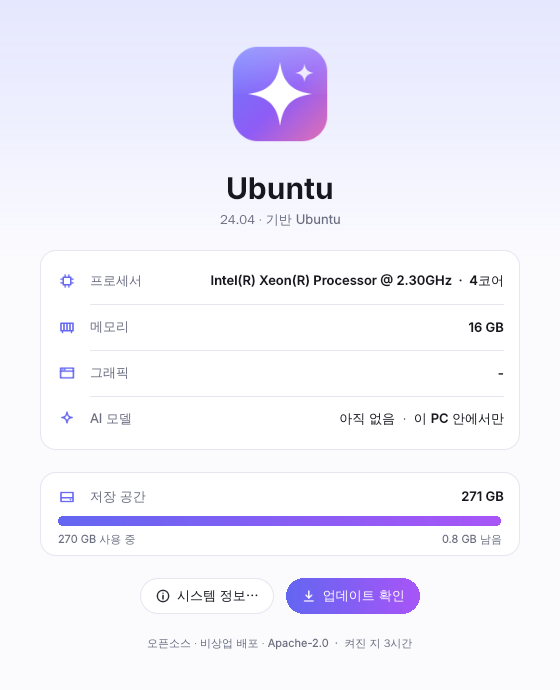
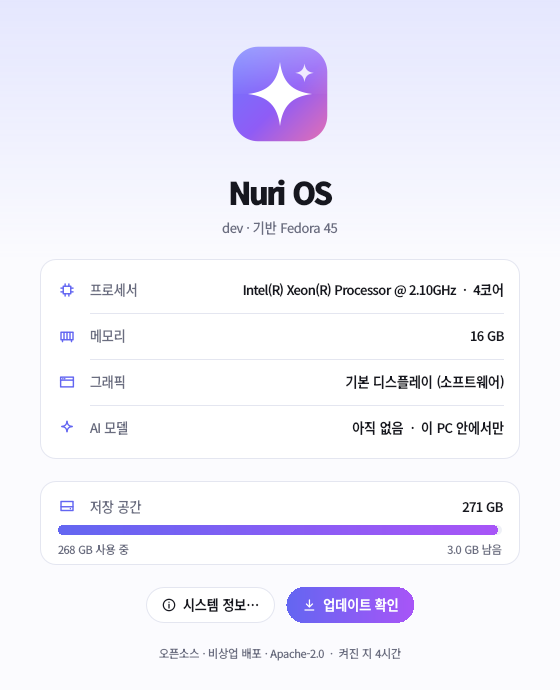
Welcome, Control Center and web remote polish
- Welcome: pages are centred vertically, the AI page no longer runs into
  the footer (window 680 px tall), every page has its own icon, info rows
  are cards like on the privacy page, the greeting line no longer wraps
- New icons: appearance (palette), comfort (pointer), keyboard (가/A key),
  privacy (shield)
- Control Center: sliders filled in the accent colour with a knob and a
  percentage; status gauges share the card width evenly
- About: "Basic display (software)" instead of "-" without a GPU
- Web remote: no on-screen keyboard popping up over text fields, spaced
  dock icons with tooltips

Claude-Session: https://claude.ai/code/session_01EDZh8PnYSk91ZfHtKaYmRu

diff --git a/distro/system_files/usr/lib/nuri/qml/Welcome.qml b/distro/system_files/usr/lib/nuri/qml/Welcome.qml
@@ -6,9 +6,9 @@ import QtQuick.Controls.Basic
 Window {
     id: win
     width: 900
-    height: 640
-    minimumWidth: 760
-    minimumHeight: 560
+    height: 680
+    minimumWidth: 780
+    minimumHeight: 620
     visible: false
     title: bridge.t.title
     color: ui.card
@@ -84,13 +84,17 @@ Window {
         MouseArea { id: m; anchors.fill: parent; hoverEnabled: true; cursorShape: Qt.PointingHandCursor
                     onClicked: parent.picked() }
     }
-    component InfoRow: Row {
+    component InfoRow: Rectangle {
         property string art
         property alias text: tx.text
-        spacing: 16
         width: parent.width
-        Image { width: 44; height: 44; sourceSize: Qt.size(88, 88); source: parent.art }
-        Text { id: tx; width: parent.width - 60; anchors.verticalCenter: parent.verticalCenter
+        height: Math.max(44, tx.implicitHeight) + 24
+        radius: 16
+        color: ui.surface
+        border.color: ui.border
+        Image { x: 14; anchors.verticalCenter: parent.verticalCenter
+                width: 40; height: 40; sourceSize: Qt.size(80, 80); source: parent.art }
+        Text { id: tx; x: 68; width: parent.width - 84; anchors.verticalCenter: parent.verticalCenter
                font.pixelSize: 15; color: ui.text; wrapMode: Text.Wrap; lineHeight: 1.2 }
     }
 
@@ -120,6 +124,8 @@ Window {
         id: stage
         anchors { left: parent.left; right: parent.right; top: parent.top; bottom: footer.top }
         anchors.margins: 40
+        anchors.topMargin: 30
+        anchors.bottomMargin: 26
 
         // 1. hello ----------------------------------------------------------
         Page {
@@ -157,7 +163,7 @@ Window {
                         }
                     }
                 }
-                Text { width: Math.min(parent.width, 520); anchors.horizontalCenter: parent.horizontalCenter
+                Text { width: Math.min(parent.width, 640); anchors.horizontalCenter: parent.horizontalCenter
                        horizontalAlignment: Text.AlignHCenter; wrapMode: Text.Wrap; lineHeight: 1.25
                        text: bridge.t.hello_sub; font.pixelSize: 15; color: ui.sub }
             }
@@ -167,8 +173,9 @@ Window {
         Page {
             name: "ai"
             Column {
+                anchors.verticalCenter: parent.verticalCenter
                 width: parent.width
-                spacing: 22
+                spacing: 18
                 Heading { title: bridge.t.ai_title; sub: bridge.t.ai_sub; art: win.icon("apps", "nuri-assistant") }
                 Flow {
                     width: parent.width
@@ -225,9 +232,10 @@ Window {
         Page {
             name: "look"
             Column {
+                anchors.verticalCenter: parent.verticalCenter
                 width: parent.width
-                spacing: 26
-                Heading { title: bridge.t.look_title; sub: bridge.t.look_sub }
+                spacing: 22
+                Heading { title: bridge.t.look_title; sub: bridge.t.look_sub; art: win.icon("apps", "preferences-desktop-theme") }
                 Row {
                     anchors.horizontalCenter: parent.horizontalCenter
                     spacing: 28
@@ -313,9 +321,10 @@ Window {
         Page {
             name: "comfort"
             Column {
+                anchors.verticalCenter: parent.verticalCenter
                 width: parent.width
-                spacing: 30
-                Heading { title: bridge.t.comfort_title; sub: bridge.t.comfort_sub }
+                spacing: 22
+                Heading { title: bridge.t.comfort_title; sub: bridge.t.comfort_sub; art: win.icon("apps", "preferences-desktop-mouse") }
                 Repeater {
                     model: [
                         { label: bridge.t.btn_side, a: bridge.t.btn_left, b: bridge.t.btn_right, key: "buttons" },
@@ -370,13 +379,15 @@ Window {
         Page {
             name: "windows"
             Column {
+                anchors.verticalCenter: parent.verticalCenter
                 width: Math.min(parent.width, 600)
                 anchors.horizontalCenter: parent.horizontalCenter
-                spacing: 22
+                spacing: 12
                 Heading { title: bridge.t.win_title; sub: bridge.t.win_sub; art: win.icon("apps", "nuri-windows-apps") }
                 InfoRow { art: win.icon("places", "folder-download"); text: bridge.t.win_exe }
                 InfoRow { art: win.icon("apps", "plasma-discover"); text: bridge.t.win_bottles }
                 InfoRow { art: win.icon("apps", "utilities-terminal"); text: bridge.t.win_steam }
+                Item { width: 1; height: 4 }
                 PillButton { anchors.horizontalCenter: parent.horizontalCenter; theme: ui; primary: true
                              icon: "download"; text: bridge.t.win_get; onClicked: bridge.open("bottles") }
             }
@@ -386,9 +397,10 @@ Window {
         Page {
             name: "input"
             Column {
+                anchors.verticalCenter: parent.verticalCenter
                 width: parent.width
                 spacing: 28
-                Heading { title: bridge.t.input_title; sub: bridge.t.input_sub }
+                Heading { title: bridge.t.input_title; sub: bridge.t.input_sub; art: win.icon("apps", "preferences-desktop-keyboard") }
                 Row {
                     anchors.horizontalCenter: parent.horizontalCenter
                     spacing: 18
@@ -419,30 +431,14 @@ Window {
         Page {
             name: "privacy"
             Column {
+                anchors.verticalCenter: parent.verticalCenter
                 width: Math.min(parent.width, 600)
                 anchors.horizontalCenter: parent.horizontalCenter
-                spacing: 24
-                Heading { title: bridge.t.priv_title; sub: "" }
-                Rectangle {
-                    width: parent.width; height: privA.height + 36; radius: 16; color: ui.surface; border.color: ui.border
-                    Row {
-                        id: privA; x: 18; y: 18; spacing: 16; width: parent.width - 36
-                        Rectangle { width: 44; height: 44; radius: 12; color: ui.accentSoft
-                                    Icon { anchors.centerIn: parent; name: "lock"; color: ui.accent; size: 22 } }
-                        Text { width: parent.width - 60; anchors.verticalCenter: parent.verticalCenter
-                               text: bridge.t.priv_ai; wrapMode: Text.Wrap; color: ui.text; font.pixelSize: 15 }
-                    }
-                }
-                Rectangle {
-                    width: parent.width; height: privB.height + 36; radius: 16; color: ui.surface; border.color: ui.border
-                    Row {
-                        id: privB; x: 18; y: 18; spacing: 16; width: parent.width - 36
-                        Image { width: 44; height: 44; sourceSize: Qt.size(88, 88); source: win.icon("apps", "system-software-update") }
-                        Text { width: parent.width - 60; anchors.verticalCenter: parent.verticalCenter
-                               text: bridge.t.priv_upd; wrapMode: Text.Wrap; color: ui.text; font.pixelSize: 15
-                               lineHeight: 1.2 }
-                    }
-                }
+                spacing: 16
+                Heading { title: bridge.t.priv_title; sub: ""; art: win.icon("apps", "preferences-security") }
+                InfoRow { art: win.icon("apps", "nuri-assistant"); text: bridge.t.priv_ai }
+                InfoRow { art: win.icon("apps", "system-software-update"); text: bridge.t.priv_upd }
+                Item { width: 1; height: 4 }
                 PillButton { anchors.horizontalCenter: parent.horizontalCenter; theme: ui
                              icon: "download"; text: bridge.t.priv_check; onClicked: bridge.open("updates") }
             }
@@ -452,6 +448,7 @@ Window {
         Page {
             name: "done"
             Column {
+                anchors.verticalCenter: parent.verticalCenter
                 width: parent.width
                 spacing: 24
                 Heading { title: bridge.t.done_title; sub: bridge.t.done_sub; art: win.icon("apps", "nuri-welcome") }

diff --git a/distro/system_files/usr/lib/nuri/qml/Control.qml b/distro/system_files/usr/lib/nuri/qml/Control.qml
@@ -63,17 +63,30 @@ Window {
         signal moved(int v)
         height: 74; radius: 18; color: ui.tile
         Text { x: 16; y: 12; text: st.label; color: ui.text; font.pixelSize: 13; font.weight: Font.DemiBold }
+        Text { anchors.right: parent.right; anchors.rightMargin: 16; y: 13; text: st.value + "%"
+               color: ui.sub; font.pixelSize: 12 }
         Rectangle {
             id: track
             x: 14; y: 38; width: parent.width - 28; height: 24; radius: 12
             color: ui.tileOff
+            // filled part in the accent colour, with a white knob at its end
             Rectangle {
+                id: fill
                 width: Math.max(height, parent.width * st.value / 100); height: parent.height; radius: 12
-                color: ui.dark ? "#ececf4" : "#ffffff"
-                border.color: ui.dark ? "transparent" : "#1a000000"
+                gradient: Gradient {
+                    orientation: Gradient.Horizontal
+                    GradientStop { position: 0; color: Qt.lighter(ui.accent, 1.25) }
+                    GradientStop { position: 1; color: ui.accent }
+                }
                 Behavior on width { NumberAnimation { duration: 90 } }
+                Rectangle {
+                    anchors.right: parent.right; anchors.rightMargin: 2; anchors.verticalCenter: parent.verticalCenter
+                    width: 20; height: 20; radius: 10; color: "white"
+                    border.color: "#22000000"
+                }
             }
-            Icon { x: 6; anchors.verticalCenter: parent.verticalCenter; name: st.icon; size: 14; color: "#6a6d80" }
+            Icon { x: 6; anchors.verticalCenter: parent.verticalCenter; name: st.icon; size: 14
+                   color: fill.width > 30 ? "white" : ui.sub }
             MouseArea {
                 anchors.fill: parent; cursorShape: Qt.PointingHandCursor
                 function set(mx) { st.moved(Math.round(Math.max(0, Math.min(1, mx / width)) * 100)) }
@@ -226,12 +239,16 @@ Window {
             Rectangle {
                 width: parent.width; height: 74; radius: 18; color: ui.tile
                 Row {
+                    id: gauges
                     anchors.centerIn: parent
+                    width: parent.width - 36
                     spacing: 18
-                    Gauge { label: bridge.t.cpu; value: bridge.stats.cpu + "%"; frac: bridge.stats.cpu / 100 }
-                    Gauge { label: bridge.t.memory; value: bridge.stats.ram_used + " / " + bridge.stats.ram_total + " GB"
+                    readonly property real cell: (width - 2 * spacing) / 3
+                    Gauge { width: gauges.cell; label: bridge.t.cpu; value: bridge.stats.cpu + "%"; frac: bridge.stats.cpu / 100 }
+                    Gauge { width: gauges.cell; label: bridge.t.memory; value: bridge.stats.ram_used + " / " + bridge.stats.ram_total + " GB"
                             frac: bridge.stats.ram_frac }
                     Gauge {
+                        width: gauges.cell
                         label: bridge.stats.battery >= 0 ? bridge.t.battery : bridge.t.model
                         value: bridge.stats.battery >= 0
                                ? bridge.stats.battery + "%" + (bridge.stats.charging ? " ⚡" : "")

diff --git a/distro/tools/make_icons.py b/distro/tools/make_icons.py
@@ -209,6 +209,43 @@ ICONS["about"] = (["nuri-about"], app(
     '<path d="M54 84h20l3 10H51z" fill="#9aa1b2"/><rect x="44" y="93" width="40" height="4" rx="2" fill="#7c8496"/>',
     lg("scr", "#6d7bff", "#e46fb3", mid=("0.55", "#8f5cf6"))))
 
+ICONS["theme"] = (["preferences-desktop-theme", "preferences-desktop-theme-global", "preferences-desktop-color"], app(
+    "#fbcfe8", "#a855f7",
+    # a painter's palette with five paint dots and a brush
+    '<path d="M64 28c-21 0-38 15-38 34 0 18 15 31 30 31 6 0 8-3.6 8-7.2 0-4.8-4-6-4-10.4 0-4 3.2-6.4 7.4-6.4h9.6'
+    'c13 0 25-8 25-20C102 37 85 28 64 28z" fill="#fff"/>'
+    '<circle cx="45" cy="60" r="6.5" fill="#fb5f57"/><circle cx="52" cy="44" r="6.5" fill="#fdbc2f"/>'
+    '<circle cx="69" cy="39" r="6.5" fill="#2ac840"/><circle cx="85" cy="48" r="6.5" fill="#3b82f6"/>'
+    '<path d="M97 70 80 96" stroke="#6b3fa0" stroke-width="5" stroke-linecap="round"/>'
+    '<path d="M80 96c-3 4-8 5-11 3 2-2 2-6 5-8 2-1.6 5-.6 6 5z" fill="#6b3fa0"/>'))
+
+ICONS["comfort"] = (["preferences-desktop-mouse", "preferences-desktop-accessibility", "preferences-desktop"], app(
+    "#99f6e4", "#0d9488",
+    # a mouse pointer over a small window title bar with three dots
+    '<rect x="24" y="30" width="66" height="46" rx="9" fill="#fff" fill-opacity=".9"/>'
+    '<rect x="24" y="30" width="66" height="13" rx="6.5" fill="#ccfbf1"/>'
+    '<circle cx="33" cy="36.5" r="3" fill="#fb5f57"/><circle cx="42" cy="36.5" r="3" fill="#fdbc2f"/>'
+    '<circle cx="51" cy="36.5" r="3" fill="#2ac840"/>'
+    '<path d="M62 54v42l10-10 7 15 8-4-7-14h14z" fill="#134e4a" stroke="#fff" stroke-width="4" stroke-linejoin="round"/>'))
+
+ICONS["keyboard"] = (["preferences-desktop-keyboard", "org.fcitx.Fcitx5", "fcitx", "input-keyboard-app"], app(
+    "#fde68a", "#f97316",
+    # a keycap showing 가 and A
+    '<rect x="26" y="34" width="76" height="62" rx="14" fill="#9a3412" fill-opacity=".35"/>'
+    '<rect x="26" y="28" width="76" height="62" rx="14" fill="#fff"/>'
+    '<text x="50" y="72" font-family="Noto Sans CJK KR, sans-serif" font-size="30" font-weight="700" '
+    'fill="#ea580c" text-anchor="middle">가</text>'
+    '<text x="82" y="70" font-family="Noto Sans, sans-serif" font-size="20" font-weight="700" '
+    'fill="#fdba74" text-anchor="middle">A</text>'))
+
+ICONS["privacy"] = (["preferences-security", "security-high", "preferences-system-privacy"], app(
+    "#86efac", "#16a34a",
+    # a shield with a keyhole lock
+    '<path d="M64 26 96 38v24c0 20-13 34-32 41-19-7-32-21-32-41V38z" fill="#fff"/>'
+    '<rect x="50" y="56" width="28" height="24" rx="6" fill="#15803d"/>'
+    '<path d="M55 57v-6a9 9 0 0 1 18 0v6" fill="none" stroke="#15803d" stroke-width="5"/>'
+    '<circle cx="64" cy="66" r="3.4" fill="#fff"/><path d="M64 68v6" stroke="#fff" stroke-width="3" stroke-linecap="round"/>'))
+
 # Trash: a frosted glass bin (no tile), like a real object on the dock.
 def trash(full):
     ribs = "".join('<path d="M%d 50l%s 50" stroke="#8b93a7" stroke-opacity=".45" stroke-width="2.4" stroke-linecap="round"/>'

diff --git a/distro/system_files/usr/lib/nuri/nuri_control.py b/distro/system_files/usr/lib/nuri/nuri_control.py
@@ -36,7 +36,7 @@ TXT = {
         "ai": "AI 비서", "shot": "화면 캡처", "lock": "잠그기", "settings": "설정",
         "cpu": "CPU", "memory": "메모리", "battery": "배터리", "charging": "충전 중",
         "model": "AI 모델", "no_model": "아직 없음", "local": "이 PC 안에서만",
-        "chip": "프로세서", "graphics": "그래픽", "storage": "저장 공간", "base": "기반",
+        "chip": "프로세서", "graphics": "그래픽", "no_gpu": "기본 디스플레이 (소프트웨어)", "storage": "저장 공간", "base": "기반",
         "cores": "%d코어", "used": "%s 사용 중", "free": "%s 남음",
         "more": "시스템 정보…", "update": "업데이트 확인", "license": "오픈소스 · 비상업 배포 · Apache-2.0",
         "uptime": "켜진 지 %s시간",
@@ -50,7 +50,7 @@ TXT = {
         "ai": "Assistant", "shot": "Screenshot", "lock": "Lock", "settings": "Settings",
         "cpu": "CPU", "memory": "Memory", "battery": "Battery", "charging": "Charging",
         "model": "AI model", "no_model": "None yet", "local": "On this PC only",
-        "chip": "Processor", "graphics": "Graphics", "storage": "Storage", "base": "Based on",
+        "chip": "Processor", "graphics": "Graphics", "no_gpu": "Basic display (software)", "storage": "Storage", "base": "Based on",
         "cores": "%d cores", "used": "%s used", "free": "%s free",
         "more": "System details…", "update": "Check for updates", "license": "Open source · non-commercial · Apache-2.0",
         "uptime": "Up %s h",
@@ -127,7 +127,7 @@ class Bridge(QObject):
         return {
             "name": osi["name"] or "Nuri OS", "version": osi["version"], "base": osi["base"],
             "cpu": S.cpu_model(), "cores": tr["cores"] % S.cpu_count(),
-            "memory": gb(mt), "gpu": S.gpu() or "-",
+            "memory": gb(mt), "gpu": S.gpu() or tr["no_gpu"],
             "disk_total": gb(total), "disk_used": tr["used"] % gb(used),
             "disk_free": tr["free"] % gb(max(0.0, total - used)),
             "disk_frac": (used / total) if total else 0.0,
